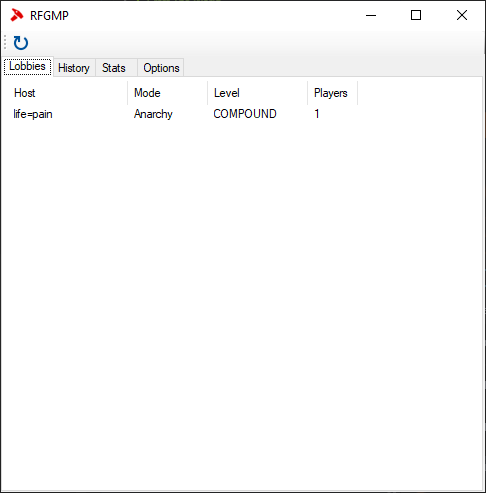
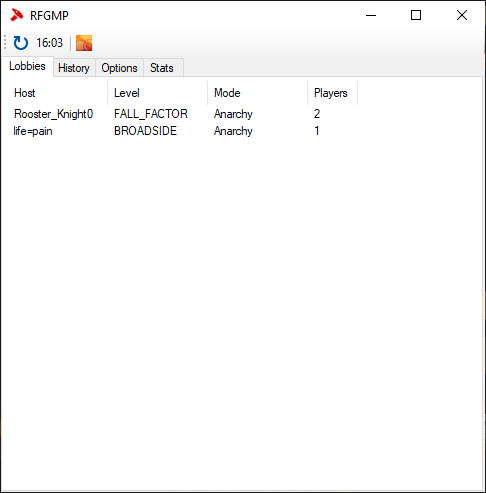
r0.1

diff --git a/RFGMP/MainForm.Designer.cs b/RFGMP/MainForm.Designer.cs
@@ -36,6 +36,8 @@
             this.lobbyRequestTimer = new System.Windows.Forms.Timer(this.components);
             this.toolStrip = new System.Windows.Forms.ToolStrip();
             this.lobbyRequestBtn = new System.Windows.Forms.ToolStripButton();
+            this.toolStripSeparator1 = new System.Windows.Forms.ToolStripSeparator();
+            this.lastUpdateLabel = new System.Windows.Forms.ToolStripLabel();
             this.steamTimer = new System.Windows.Forms.Timer(this.components);
             this.lobbiesView = new System.Windows.Forms.ListView();
             this.mmHostName = ((System.Windows.Forms.ColumnHeader)(new System.Windows.Forms.ColumnHeader()));
@@ -53,11 +55,10 @@
             this.histTimestamp = ((System.Windows.Forms.ColumnHeader)(new System.Windows.Forms.ColumnHeader()));
             this.tabOptions = new System.Windows.Forms.TabPage();
             this.optionsGrid = new System.Windows.Forms.PropertyGrid();
-            this.redrawTimer = new System.Windows.Forms.Timer(this.components);
             this.tabStats = new System.Windows.Forms.TabPage();
             this.statsGrid = new System.Windows.Forms.PropertyGrid();
-            this.lastUpdateLabel = new System.Windows.Forms.ToolStripLabel();
-            this.toolStripSeparator1 = new System.Windows.Forms.ToolStripSeparator();
+            this.redrawTimer = new System.Windows.Forms.Timer(this.components);
+            this.runGameBtn = new System.Windows.Forms.ToolStripButton();
             this.trayMenu.SuspendLayout();
             this.toolStrip.SuspendLayout();
             this.tabControl.SuspendLayout();
@@ -98,8 +99,9 @@
             // 
             this.toolStrip.Items.AddRange(new System.Windows.Forms.ToolStripItem[] {
             this.lobbyRequestBtn,
+            this.lastUpdateLabel,
             this.toolStripSeparator1,
-            this.lastUpdateLabel});
+            this.runGameBtn});
             this.toolStrip.Location = new System.Drawing.Point(0, 0);
             this.toolStrip.Name = "toolStrip";
             this.toolStrip.Size = new System.Drawing.Size(484, 25);
@@ -114,6 +116,17 @@
             this.lobbyRequestBtn.Size = new System.Drawing.Size(23, 22);
             this.lobbyRequestBtn.Text = "Refresh";
             this.lobbyRequestBtn.Click += new System.EventHandler(this.lobbyRequestBtn_Click);
+            // 
+            // toolStripSeparator1
+            // 
+            this.toolStripSeparator1.Name = "toolStripSeparator1";
+            this.toolStripSeparator1.Size = new System.Drawing.Size(6, 25);
+            // 
+            // lastUpdateLabel
+            // 
+            this.lastUpdateLabel.Name = "lastUpdateLabel";
+            this.lastUpdateLabel.Size = new System.Drawing.Size(34, 22);
+            this.lastUpdateLabel.Text = "00:00";
             // 
             // steamTimer
             // 
@@ -262,12 +275,6 @@
             this.optionsGrid.ToolbarVisible = false;
             this.optionsGrid.PropertyValueChanged += new System.Windows.Forms.PropertyValueChangedEventHandler(this.optionsGrid_PropertyValueChanged);
             // 
-            // redrawTimer
-            // 
-            this.redrawTimer.Enabled = true;
-            this.redrawTimer.Interval = 1000;
-            this.redrawTimer.Tick += new System.EventHandler(this.redrawTimer_Tick);
-            // 
             // tabStats
             // 
             this.tabStats.Controls.Add(this.statsGrid);
@@ -290,16 +297,21 @@
             this.statsGrid.TabIndex = 0;
             this.statsGrid.ToolbarVisible = false;
             // 
-            // lastUpdateLabel
+            // redrawTimer
             // 
-            this.lastUpdateLabel.Name = "lastUpdateLabel";
-            this.lastUpdateLabel.Size = new System.Drawing.Size(34, 22);
-            this.lastUpdateLabel.Text = "00:00";
+            this.redrawTimer.Enabled = true;
+            this.redrawTimer.Interval = 1000;
+            this.redrawTimer.Tick += new System.EventHandler(this.redrawTimer_Tick);
             // 
-            // toolStripSeparator1
+            // runGameBtn
             // 
-            this.toolStripSeparator1.Name = "toolStripSeparator1";
-            this.toolStripSeparator1.Size = new System.Drawing.Size(6, 25);
+            this.runGameBtn.DisplayStyle = System.Windows.Forms.ToolStripItemDisplayStyle.Image;
+            this.runGameBtn.Image = ((System.Drawing.Image)(resources.GetObject("runGameBtn.Image")));
+            this.runGameBtn.ImageTransparentColor = System.Drawing.Color.Magenta;
+            this.runGameBtn.Name = "runGameBtn";
+            this.runGameBtn.Size = new System.Drawing.Size(23, 22);
+            this.runGameBtn.Text = "Play";
+            this.runGameBtn.Click += new System.EventHandler(this.runGameBtn_Click);
             // 
             // MainForm
             // 
@@ -357,6 +369,7 @@
         private System.Windows.Forms.PropertyGrid statsGrid;
         private System.Windows.Forms.ToolStripSeparator toolStripSeparator1;
         private System.Windows.Forms.ToolStripLabel lastUpdateLabel;
+        private System.Windows.Forms.ToolStripButton runGameBtn;
     }
 }
 

diff --git a/RFGMP/MainForm.cs b/RFGMP/MainForm.cs
@@ -4,9 +4,10 @@ using System.ComponentModel.DataAnnotations;
 using System.Configuration;
 using System.Diagnostics;
 using System.Globalization;
+using System.IO;
 using System.Reflection;
 using System.Windows.Forms;
-
+using Microsoft.Win32;
 using Steamworks;
 
 namespace RFGMP
@@ -28,7 +29,7 @@ namespace RFGMP
             SetDoubleBuffered(histView, true);
 
             optionsGrid.SelectedObject = options;
-            statsGrid.SelectedObject = stats;
+            statsGrid.SelectedObject = stats; // TODO: make readonly
         }
 
         private void MainForm_Shown(object sender, EventArgs e)
@@ -309,7 +310,7 @@ namespace RFGMP
 
             foreach (var lobby in sorted)
             {
-                if (lobby.Alive && ((DateTime.Now - lobby.UpdateTime).TotalSeconds <= options.LobbyUpdateInterval))
+                if (lobby.Alive) // && ((DateTime.Now - lobby.UpdateTime).TotalSeconds <= options.LobbyUpdateInterval))
                 {
                     var cols = new string[] { lobby.HostName, lobby.LevelName, lobby.GameMode.ToString(), lobby.NumPlayers.ToString() };
                     var item = new ListViewItem(cols);
@@ -386,6 +387,23 @@ namespace RFGMP
                         trayIcon.ShowBalloonTip(options.NotifyBalloonTimeout * 1000);
                     }
                 }
+            }
+        }
+
+        #endregion
+
+        #region PLAY
+
+        private void runGameBtn_Click(object sender, EventArgs e)
+        {
+            var exePath = GetGameExe();
+            if (File.Exists(exePath))
+            {
+                var info = new ProcessStartInfo();
+                info.FileName = exePath;
+                info.WorkingDirectory = GetGamePath();
+
+                Process.Start(info);
             }
         }
 
@@ -530,6 +548,32 @@ namespace RFGMP
             listView.GetType()
                 .GetProperty("DoubleBuffered", BindingFlags.Instance | BindingFlags.NonPublic)
                 .SetValue(listView, value);
+        }
+
+        private string GetSteamPath()
+        {
+            using (var key = Registry.CurrentUser.OpenSubKey("Software\\Valve\\Steam"))
+            {
+                if (key != null)
+                {
+                    var steamPath = key.GetValue("SteamPath");
+                    if (steamPath != null)
+                    {
+                        return Convert.ToString(steamPath);
+                    }
+                }
+            }
+            return "";
+        }
+
+        private string GetGamePath()
+        {
+            return Path.Combine(GetSteamPath(), "steamapps", "common", "Red Faction Guerrilla Re-MARS-tered");
+        }
+
+        private string GetGameExe()
+        {
+            return Path.Combine(GetGamePath(), "rfg.exe");
         }
 
         private bool IsGameRunning()

diff --git a/RFGMP/Options.cs b/RFGMP/Options.cs
@@ -5,13 +5,11 @@ namespace RFGMP
 {
     public class Options
     {
-        //[Browsable(bool)] – to show property or not
-        //[ReadOnly(bool)] – possibility to edit property
-        //[Category(string)] – groups of property
-        //[Description(string)] – property description.It is something like a hint.
-        //[DisplayName(string)] – display property
-        //[Range(10, 1000)]
-        //[IntegerValidator(MinValue = 10, MaxValue = 1000)]
+        //[Browsable(bool)] to show property or not
+        //[ReadOnly(bool)] possibility to edit property
+        //[Category(string)] groups of property
+        //[Description(string)] property description.It is something like a hint.
+        //[DisplayName(string)] display property
 
         [Category("App")]
         public bool UpdateWhilePlaying { get; set; } = true;
@@ -27,11 +25,11 @@ namespace RFGMP
         // NOTIFY
 
         [Category("Notify")]
-        public bool NotifyEnabled { get; set; } = true;
+        public bool NotifyEnabled { get; set; } = false;
 
         [Category("Notify")]
         [Range(1, 3600)]
-        public int NotifyInterval { get; set; } = 60; // sec
+        public int NotifyInterval { get; set; } = 5 * 60; // sec
 
         [Category("Notify")]
         [Range(1, 3600)]

diff --git a/RFGMP/Properties/AssemblyInfo.cs b/RFGMP/Properties/AssemblyInfo.cs
@@ -6,7 +6,7 @@ using System.Runtime.InteropServices;
 // set of attributes. Change these attribute values to modify the information
 // associated with an assembly.
 [assembly: AssemblyTitle("RFGMP")]
-[assembly: AssemblyDescription("")]
+[assembly: AssemblyDescription("Lobby browser for Red Faction Guerrilla Re-Mars-tered")]
 [assembly: AssemblyConfiguration("")]
 [assembly: AssemblyCompany("")]
 [assembly: AssemblyProduct("")]
@@ -32,5 +32,5 @@ using System.Runtime.InteropServices;
 // You can specify all the values or you can default the Build and Revision Numbers
 // by using the '*' as shown below:
 // [assembly: AssemblyVersion("1.0.*")]
-[assembly: AssemblyVersion("1.0.0.0")]
-[assembly: AssemblyFileVersion("1.0.0.0")]
+[assembly: AssemblyVersion("0.1.0.0")]
+[assembly: AssemblyFileVersion("0.1.0.0")]
